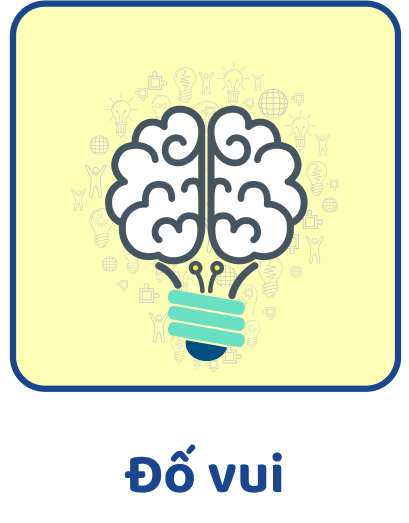
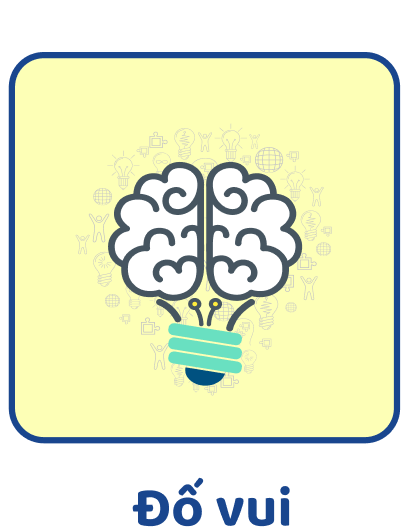
Sua lai giao dien HomeScreen

diff --git a/LearnWithPenguin/View/HomeView.xaml b/LearnWithPenguin/View/HomeView.xaml
@@ -15,7 +15,9 @@
                 <Button DataContext="{StaticResource MainVM}"
                         Command="{Binding TransformToRead}"
                         Height="251.52"
-                        Width="195.66">
+                        Width="200"
+                        Background="Transparent"
+                        BorderThickness="0">
                     <Button.Resources>
                         <Style TargetType="{x:Type Border}">
                             <Setter Property="Border.CornerRadius"
@@ -30,7 +32,9 @@
 
                 <Button DataContext="{StaticResource MainVM}"
                         Command="{Binding TransformToWrite}"
-                        Height="296">
+                        Height="296"
+                        Background="Transparent"
+                        BorderThickness="0">
                     <Button.Resources>
                         <Style TargetType="{x:Type Border}">
                             <Setter Property="Border.CornerRadius"
@@ -44,11 +48,13 @@
                            Margin="0 47.19 0 0"></Image>
                 </Button>
             </StackPanel>
-            <StackPanel Margin="74.22 200.88 74.9 50">
+            <StackPanel Margin="40 160 0 0">
                 <Button DataContext="{StaticResource MainVM}"
                         Command="{Binding TransformToPuzzle}"
-                        Height="250.52"
-                        Width="200.56">
+                        Height="300"
+                        Width="300"
+                        Background="Transparent"
+                        BorderThickness="0">
                     <Button.Resources>
                         <Style TargetType="{x:Type Border}">
                             <Setter Property="Border.CornerRadius"
@@ -57,12 +63,15 @@
                     </Button.Resources>
                     <Image Stretch="Uniform"
                            Source="../images/DoVui.png"
-                           Height="255"
-                           Width="201" />
+                           Height="284"
+                           Width="228" />
                 </Button>
                 <Button Command="{Binding TransformToEvaluate}"
-                        Height="267"
-                        Width="220">
+                        Height="298"
+                        Width="263"
+                        Background="Transparent"
+                        BorderThickness="0"
+                        Margin="0 0">
                     <Button.Resources>
                         <Style TargetType="{x:Type Border}">
                             <Setter Property="CornerRadius"
@@ -73,9 +82,9 @@
                         <StaticResource ResourceKey="MainVM" />
                     </Button.DataContext>
                     <Image Stretch="Uniform"
-                           Source="../images/TongKet.png"
-                           Height="277"
-                           Width="225" />
+                           Source="../images/LapTrinh.png"
+                           Height="288"
+                           Width="255" />
                 </Button>
             </StackPanel>
         </StackPanel>
